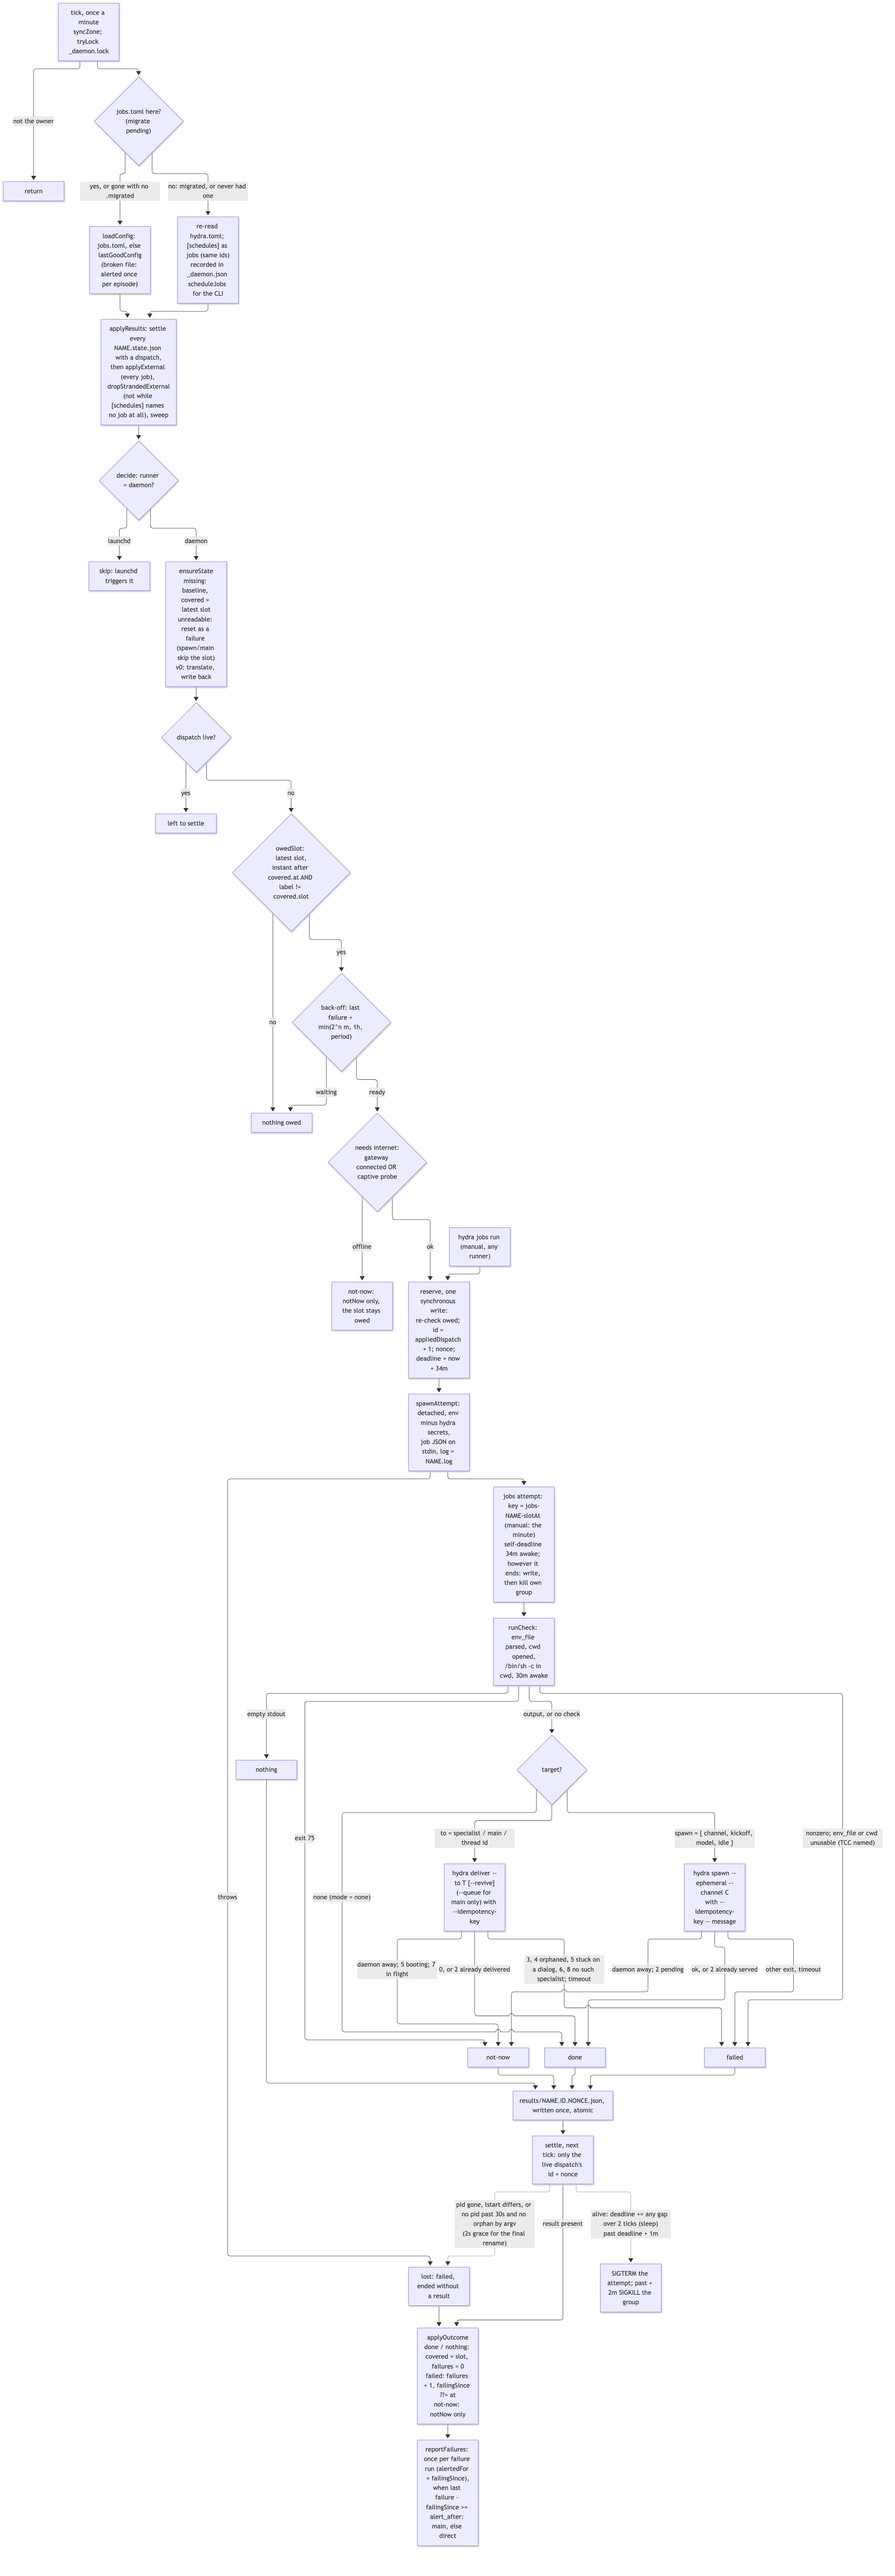
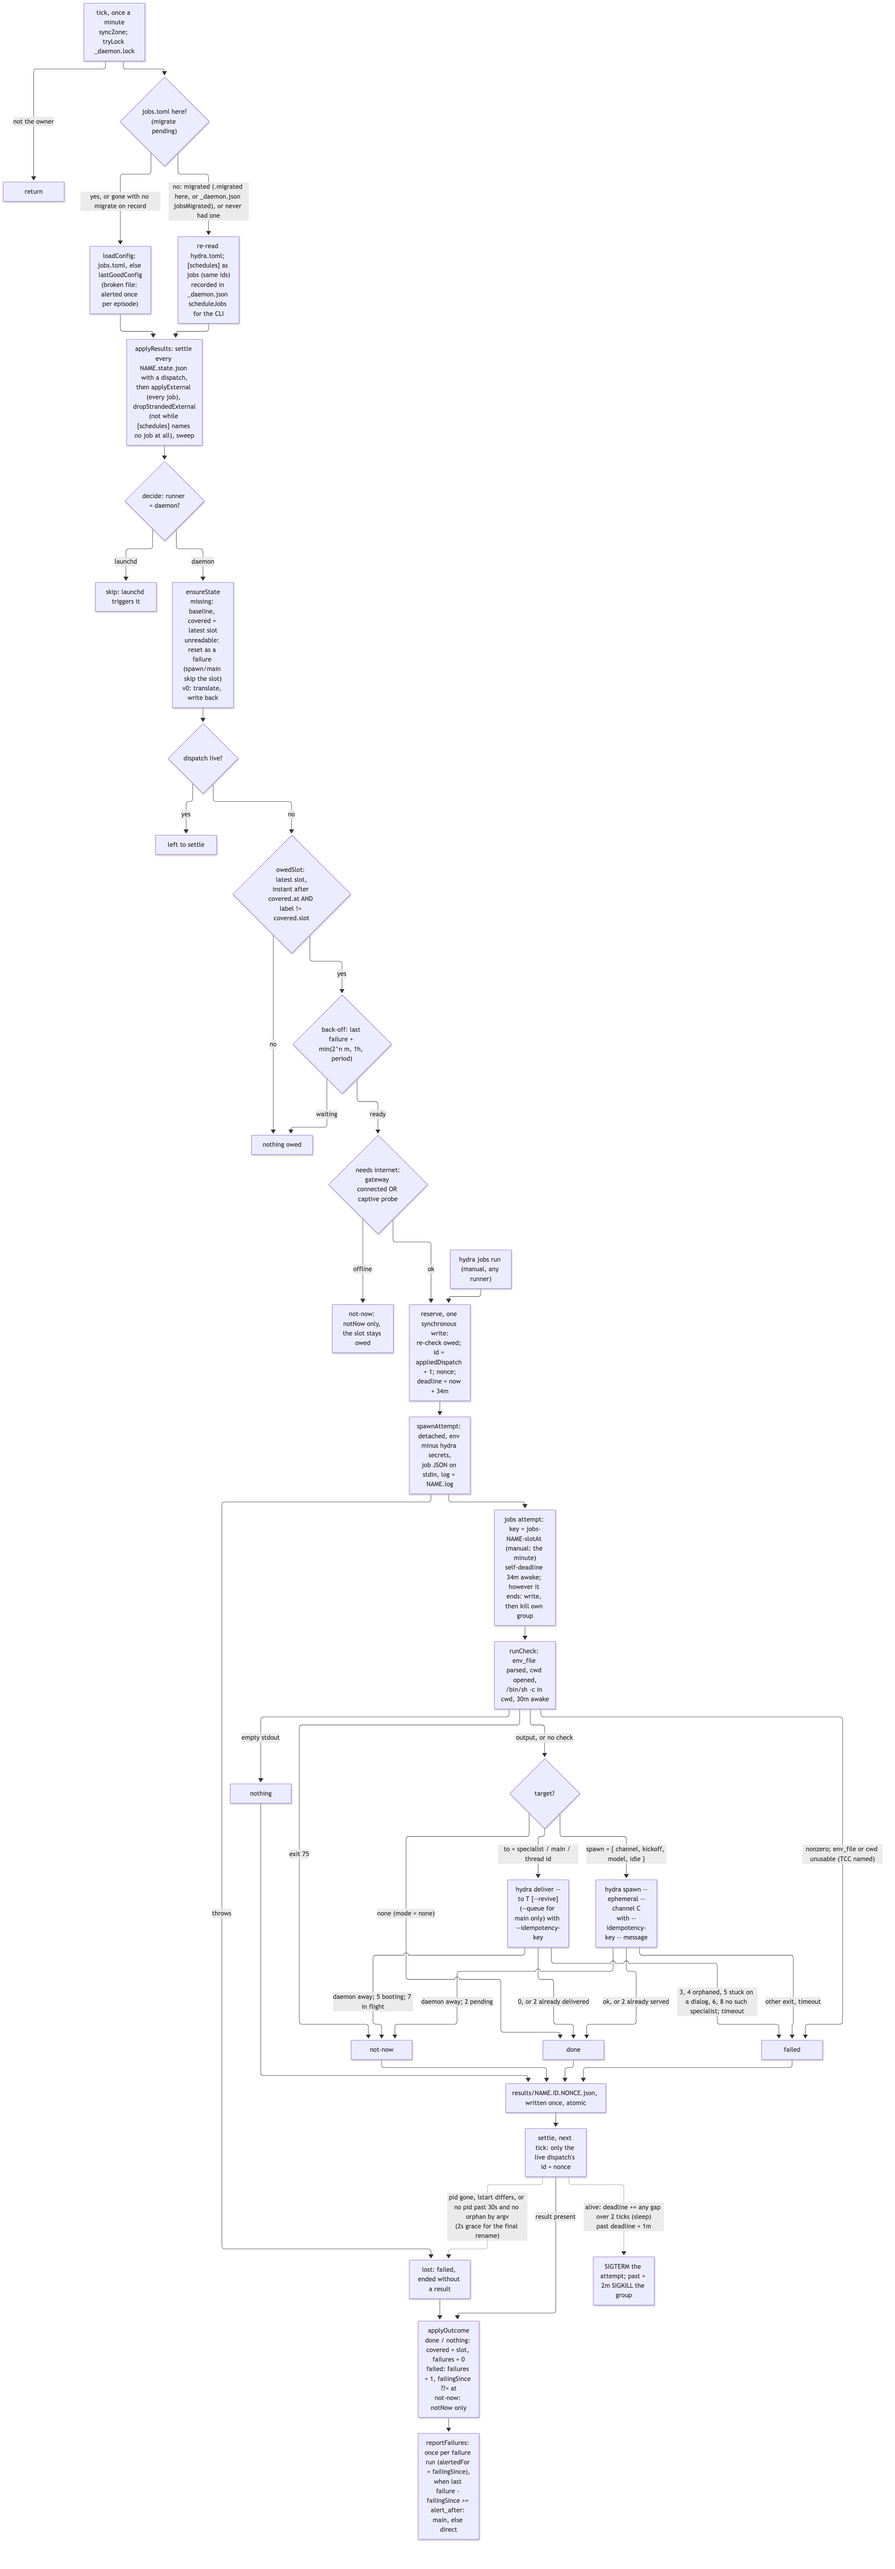
Jobs: remember that migrate moved jobs.toml, so deleting jobs.toml.migrated changes nothing (#567)
schedulesAreSource() took the presence of jobs.toml.migrated as the only
proof that migrate had run. That file reads as a backup, and migrate
leaves three real backups beside it. On 2026-11-09 all four were deleted
after migrating, and the next tick went back to jobs.toml: "Jobs: …/jobs.toml
is missing. Running the last good config (1 job) until it is fixed."

Now the fact is recorded as jobsMigrated in _daemon.json: by migrate itself
(the daemon is stopped, so a deletion before its first tick is covered), and
by the clock the first time it runs [schedules] with the file present (for
installs migrated before this). schedulesAreSource() accepts the record. A
jobs.toml put back still wins and clears the record; a jobs.toml deleted
before any migrate is still alerted. Migrate's writeState creates jobs-state/
when a state dir never ran a job.

diff --git a/config/__tests__/migrate-jobs.test.ts b/config/__tests__/migrate-jobs.test.ts
@@ -5,7 +5,8 @@ import { join } from 'path'
 import { jobsStep, migrateJobs } from '../migrate-jobs.js'
 import { applyMigrate, planMigrate } from '../migrate.js'
 import { loadHydraConfig } from '../load.js'
-import { stateFile } from '../../shared/jobs.js'
+import { daemonFile, readDaemonState, stateFile } from '../../shared/jobs.js'
+import { schedulesAreSource } from '../../shared/schedules.js'
 import { latestSlot, nextSlot } from '../../shared/cron-local.js'
 
 const opts = { sessionNames: ['byte'], defaultWorkdir: '/home/u/work' }
@@ -86,6 +87,38 @@ describe('migrate jobs.toml → [schedules]', () => {
       expect(existsSync(join(dir, 'jobs.toml'))).toBe(false)
       expect(readFileSync(join(dir, 'jobs.toml.migrated'), 'utf8')).toBe(LIVE)
       expect(jobsStep.pending(dir)).toBe(false)
+    } finally { rmSync(dir, { recursive: true }) }
+  })
+
+  test('migrate records itself in _daemon.json, keeping what is there, so deleting jobs.toml.migrated before the daemon starts changes nothing', () => {
+    const dir = mkdtempSync(join(tmpdir(), 'migrate-jobs-'))
+    try {
+      writeFileSync(join(dir, 'jobs.toml'), LIVE)
+      writeFileSync(join(dir, 'access.json'), JSON.stringify({ allowFrom: ['100000000000000001'] }))
+      mkdirSync(join(dir, 'jobs-state'))
+      writeFileSync(daemonFile(dir), JSON.stringify({ lastGoodConfig: LIVE, lastTick: '2026-11-09T07:00:00.000Z' }))
+      const env = { home: '/home/u', isDir: () => true, isCommand: () => true, sessionNames: ['byte'] }
+      const plan = planMigrate({ stateDir: dir, env, spawnCwd: '/home/u/work', platform: 'discord' as const })
+      if (!plan.ok) throw new Error(plan.errors.join('\n'))
+      applyMigrate(dir, plan)
+      const { state } = readDaemonState(dir)
+      expect(state).toMatchObject({ lastGoodConfig: LIVE, lastTick: '2026-11-09T07:00:00.000Z' })
+      expect(state.jobsMigrated).toBeDefined()
+      rmSync(join(dir, 'jobs.toml.migrated'))
+      expect(schedulesAreSource(dir, state)).toBe(true)
+    } finally { rmSync(dir, { recursive: true }) }
+  })
+
+  test('a state dir that never ran a job: migrate creates jobs-state/ for its record', () => {
+    const dir = mkdtempSync(join(tmpdir(), 'migrate-jobs-'))
+    try {
+      writeFileSync(join(dir, 'jobs.toml'), LIVE)
+      writeFileSync(join(dir, 'access.json'), JSON.stringify({ allowFrom: ['100000000000000001'] }))
+      const env = { home: '/home/u', isDir: () => true, isCommand: () => true, sessionNames: ['byte'] }
+      const plan = planMigrate({ stateDir: dir, env, spawnCwd: '/home/u/work', platform: 'discord' as const })
+      if (!plan.ok) throw new Error(plan.errors.join('\n'))
+      applyMigrate(dir, plan)
+      expect(readDaemonState(dir).state.jobsMigrated).toBeDefined()
     } finally { rmSync(dir, { recursive: true }) }
   })
 

diff --git a/connectors/clock/jobs-clock.ts b/connectors/clock/jobs-clock.ts
@@ -15,7 +15,7 @@ import {
   owedSlot, backoffUntil, parseJobsConfig, type Outcome, parseResultName, parseExternalName, externalFile, externalResults, type ExternalResult, readDaemonState, readJobState, resultFile, resultsDir, stateFile,
   writeAtomic, type AttemptResult, type DaemonState, type Dispatch, type Job, type JobsConfig, type JobState,
 } from '../../shared/jobs.js'
-import { schedulesAreSource } from '../../shared/schedules.js'
+import { migratedJobsToml, schedulesAreSource } from '../../shared/schedules.js'
 
 const noSuch = (cfg: JobsConfig, name: string) => cfg.fromSchedules ? `no schedule named ${name} in hydra.toml` : `no job named ${name} in jobs.toml`
 
@@ -229,14 +229,17 @@ export class JobsClock {
       await this.d.direct(`Jobs: ${daemonFile(this.d.stateDir)} was unreadable (${corrupt}); started it fresh.`, this.d.homeChannel())
       if (this.stopped) return { jobs: [] }
     }
-    if (this.d.schedules && schedulesAreSource(this.d.stateDir, state)) return { jobs: this.scheduleJobs(state), fromSchedules: true }
+    if (this.d.schedules && schedulesAreSource(this.d.stateDir, state)) {
+      if (state.jobsMigrated === undefined && existsSync(migratedJobsToml(this.d.stateDir))) this.updateDaemon(s => { s.jobsMigrated = this.d.now().toISOString() })
+      return { jobs: this.scheduleJobs(state), fromSchedules: true }
+    }
     let problem: string
     const file = jobsToml(this.d.stateDir)
     if (existsSync(file)) {
       const text = readFileSync(file, 'utf8')
       try {
         const cfg = parseJobsConfig(text)
-        if (state.lastGoodConfig !== text || state.configAlertedFor) this.updateDaemon(s => { s.lastGoodConfig = text; delete s.configAlertedFor })
+        if (state.lastGoodConfig !== text || state.configAlertedFor || state.jobsMigrated) this.updateDaemon(s => { s.lastGoodConfig = text; delete s.configAlertedFor; delete s.jobsMigrated })   // jobs.toml is back: its migrate is pending again
         return cfg
       } catch (err) {
         problem = `${file} doesn't parse: ${err instanceof Error ? err.message : err}`

diff --git a/connectors/clock/__tests__/jobs-clock.test.ts b/connectors/clock/__tests__/jobs-clock.test.ts
@@ -1638,6 +1638,34 @@ describe("hydra.toml [schedules]: run once migrate has moved jobs.toml; until th
     expect(w.logs.some(l => l.includes('missing'))).toBe(false)
   })
 
+  test('migrated, then jobs.toml.migrated deleted as a backup: the schedules keep running, and nothing is alerted', async () => {
+    toml(FIVE)
+    const c = clock({ schedules: () => jobsFromSchedules(sweep) })
+    at('2026-11-04T09:59:00-08:00'); await c.tick()
+    renameSync(join(w.dir, 'jobs.toml'), join(w.dir, 'jobs.toml.migrated'))
+    at('2026-11-04T10:00:30-08:00'); await c.tick()                              // sees the marker and records it
+    expect(readDaemonState(w.dir).state.jobsMigrated).toBeDefined()
+    rmSync(join(w.dir, 'jobs.toml.migrated'))
+    finish('sweep', 1, 'done', undefined, 1000)
+    at('2026-11-04T10:05:30-08:00'); await c.tick()
+    expect(w.spawns.map(s => argOf(s.args, '--slot'))).toEqual(['2026-11-04 10:00', '2026-11-04 10:05'])
+    expect(w.direct).toEqual([])
+    expect(w.logs.some(l => l.includes('missing'))).toBe(false)
+  })
+
+  test('a jobs.toml put back after migrate wins again, and its migrate record is cleared', async () => {
+    toml(FIVE)
+    const c = clock({ schedules: () => jobsFromSchedules(sweep) })
+    at('2026-11-04T09:59:00-08:00'); await c.tick()
+    renameSync(join(w.dir, 'jobs.toml'), join(w.dir, 'jobs.toml.migrated'))
+    at('2026-11-04T10:00:30-08:00'); await c.tick()
+    expect(readDaemonState(w.dir).state.jobsMigrated).toBeDefined()
+    rmSync(join(w.dir, 'jobs.toml.migrated'))
+    toml(FIVE)
+    at('2026-11-04T10:01:30-08:00'); await c.tick()
+    expect(readDaemonState(w.dir).state.jobsMigrated).toBeUndefined()
+  })
+
   test('after migrate, schedules run and mark-done act on the [schedules] definition, never the saved jobs.toml', async () => {
     toml(`[sweep]\nschedule = "*/5 * * * *"\ncheck = "old.sh"\nmode = "none"\n`)
     const c = clock({ schedules: () => jobsFromSchedules(cfg(schedule({ id: 'sweep', check: 'new.sh' }), schedule({ id: 'fresh', check: 'f.sh' }))) })

diff --git a/config/migrate-jobs.ts b/config/migrate-jobs.ts
@@ -13,8 +13,8 @@
 // Dropped, with a note when set: revive (a specialist always revives), channel (alerts go to the operator), durable.
 
 import { existsSync, readFileSync } from 'fs'
-import { join } from 'path'
-import { jobInitiator, owedSlot, parseJobsConfig, readJobState, type Job } from '../shared/jobs.js'
+import { join, relative } from 'path'
+import { daemonFile, jobInitiator, owedSlot, parseJobsConfig, readDaemonState, readJobState, type Job } from '../shared/jobs.js'
 import { nextSlot } from '../shared/cron-local.js'
 import { DEFAULT_IDLE_TTL_MS } from '../shared/constants.js'
 import { invalidSpecialistName } from '../shared/specialist-name.js'
@@ -152,6 +152,8 @@ export const jobsStep: MigrateStep = {
         ...(Object.keys(m.specialists).length > 0 && { specialists: m.specialists }),
       },
       consumed: ['jobs.toml'],
+      // Recorded here, with the daemon stopped, so deleting jobs.toml.migrated before its first tick changes nothing.
+      writes: { [relative(stateDir, daemonFile(stateDir))]: JSON.stringify({ ...readDaemonState(stateDir).state, jobsMigrated: now.toISOString() }, null, 2) },
       notes: [...m.notes, ...Object.entries(m.schedules).map(([id, s]) => equivalence(stateDir, id, s, m.specialists[id], now))],
     }
   },

diff --git a/shared/schedules.ts b/shared/schedules.ts
@@ -18,12 +18,13 @@ export const migratedJobsToml = (stateDir: string) => `${jobsToml(stateDir)}.mig
 
 /**
  * Whether the clock runs hydra.toml's [schedules] rather than jobs.toml. jobs.toml wins while it exists (its migrate
- * step is pending). Without it, schedules run once migrate has moved it, or if this state dir never had one; a jobs.toml
- * that just went missing is still today's case: alerted, and its last good copy runs.
+ * step is pending). Without it, schedules run once migrate has moved it (jobs.toml.migrated, or the clock's record that it
+ * saw that file, so deleting it as a backup changes nothing), or if this state dir never had one; a jobs.toml that just
+ * went missing is still today's case: alerted, and its last good copy runs.
  */
 export function schedulesAreSource(stateDir: string, state: DaemonState): boolean {
   if (existsSync(jobsToml(stateDir))) return false
-  return state.lastGoodConfig === undefined || existsSync(migratedJobsToml(stateDir))
+  return state.lastGoodConfig === undefined || state.jobsMigrated !== undefined || existsSync(migratedJobsToml(stateDir))
 }
 
 export function jobsFromSchedules(cfg: Pick<HydraConfig, 'schedules' | 'specialists'>): Job[] {

diff --git a/config/migrate.ts b/config/migrate.ts
@@ -4,8 +4,8 @@
 // what its build step deletes: access.json's allowFrom and specialists.json here; slack-watch.json and jobs.toml
 // join as their own steps.
 
-import { existsSync, readFileSync, renameSync, unlinkSync, writeFileSync } from 'fs'
-import { isAbsolute, join, resolve } from 'path'
+import { existsSync, mkdirSync, readFileSync, renameSync, unlinkSync, writeFileSync } from 'fs'
+import { dirname, isAbsolute, join, resolve } from 'path'
 import { parseIdleTtl } from '../shared/constants.js'
 import { invalidSpecialistName } from '../shared/specialist-name.js'
 import { loadHydraConfig, normalizeAddress, normalizePlace, formatIssues } from './load.js'
@@ -488,6 +488,7 @@ export function finishMigrate(stateDir: string): boolean {
 }
 
 function writeState(path: string, content: string): void {
+  mkdirSync(dirname(path), { recursive: true, mode: 0o700 })   // jobs-state/ may not exist yet
   writeFileSync(`${path}.tmp`, content, { mode: 0o600 })
   renameSync(`${path}.tmp`, path)
 }

diff --git a/shared/jobs.ts b/shared/jobs.ts
@@ -305,6 +305,7 @@ export type JobState = {
 
 export type DaemonState = {
   lastGoodConfig?: string
+  jobsMigrated?: string           // when the clock first found jobs.toml.migrated: migrate is done, even if that file is later deleted
   syncedConfig?: string           // the jobs.toml the last `jobs sync` made live: what its diff is against
   configAlertedFor?: string       // the config problem already alerted: once per episode, cleared when it parses
   staleAlertedFor?: string        // the stale-clock episode already alerted (its last tick, or "never"), so a restart doesn't repeat it
